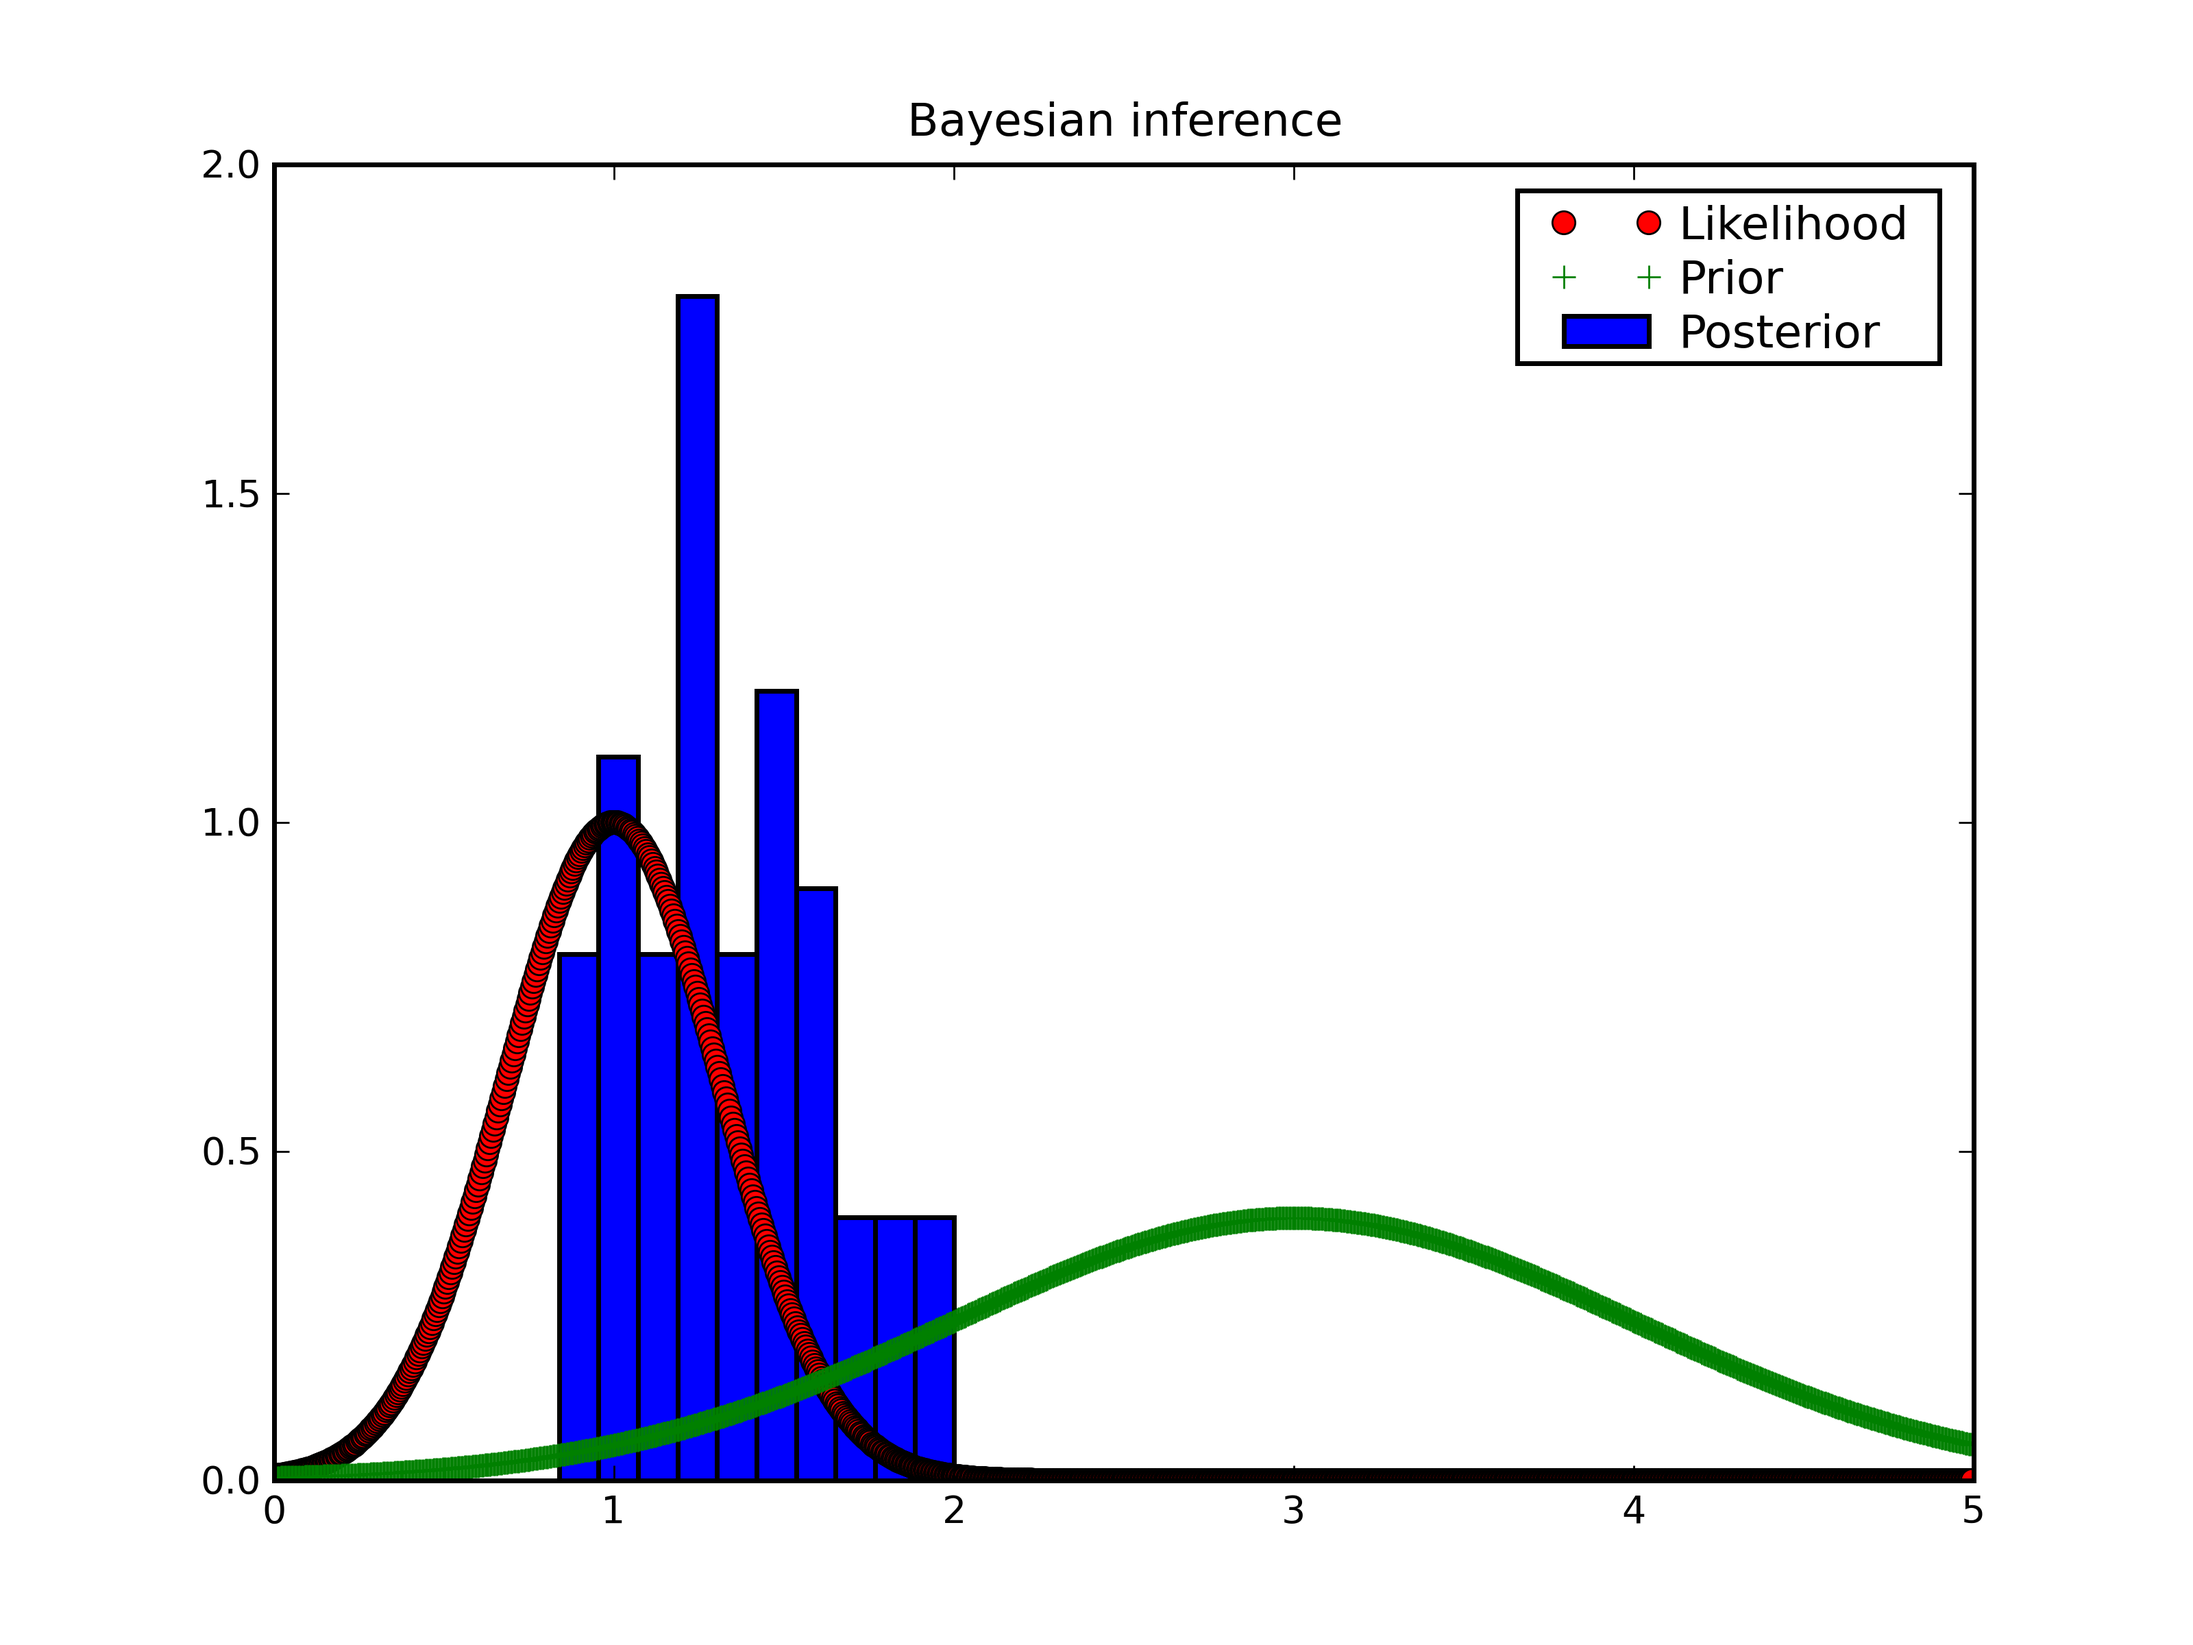
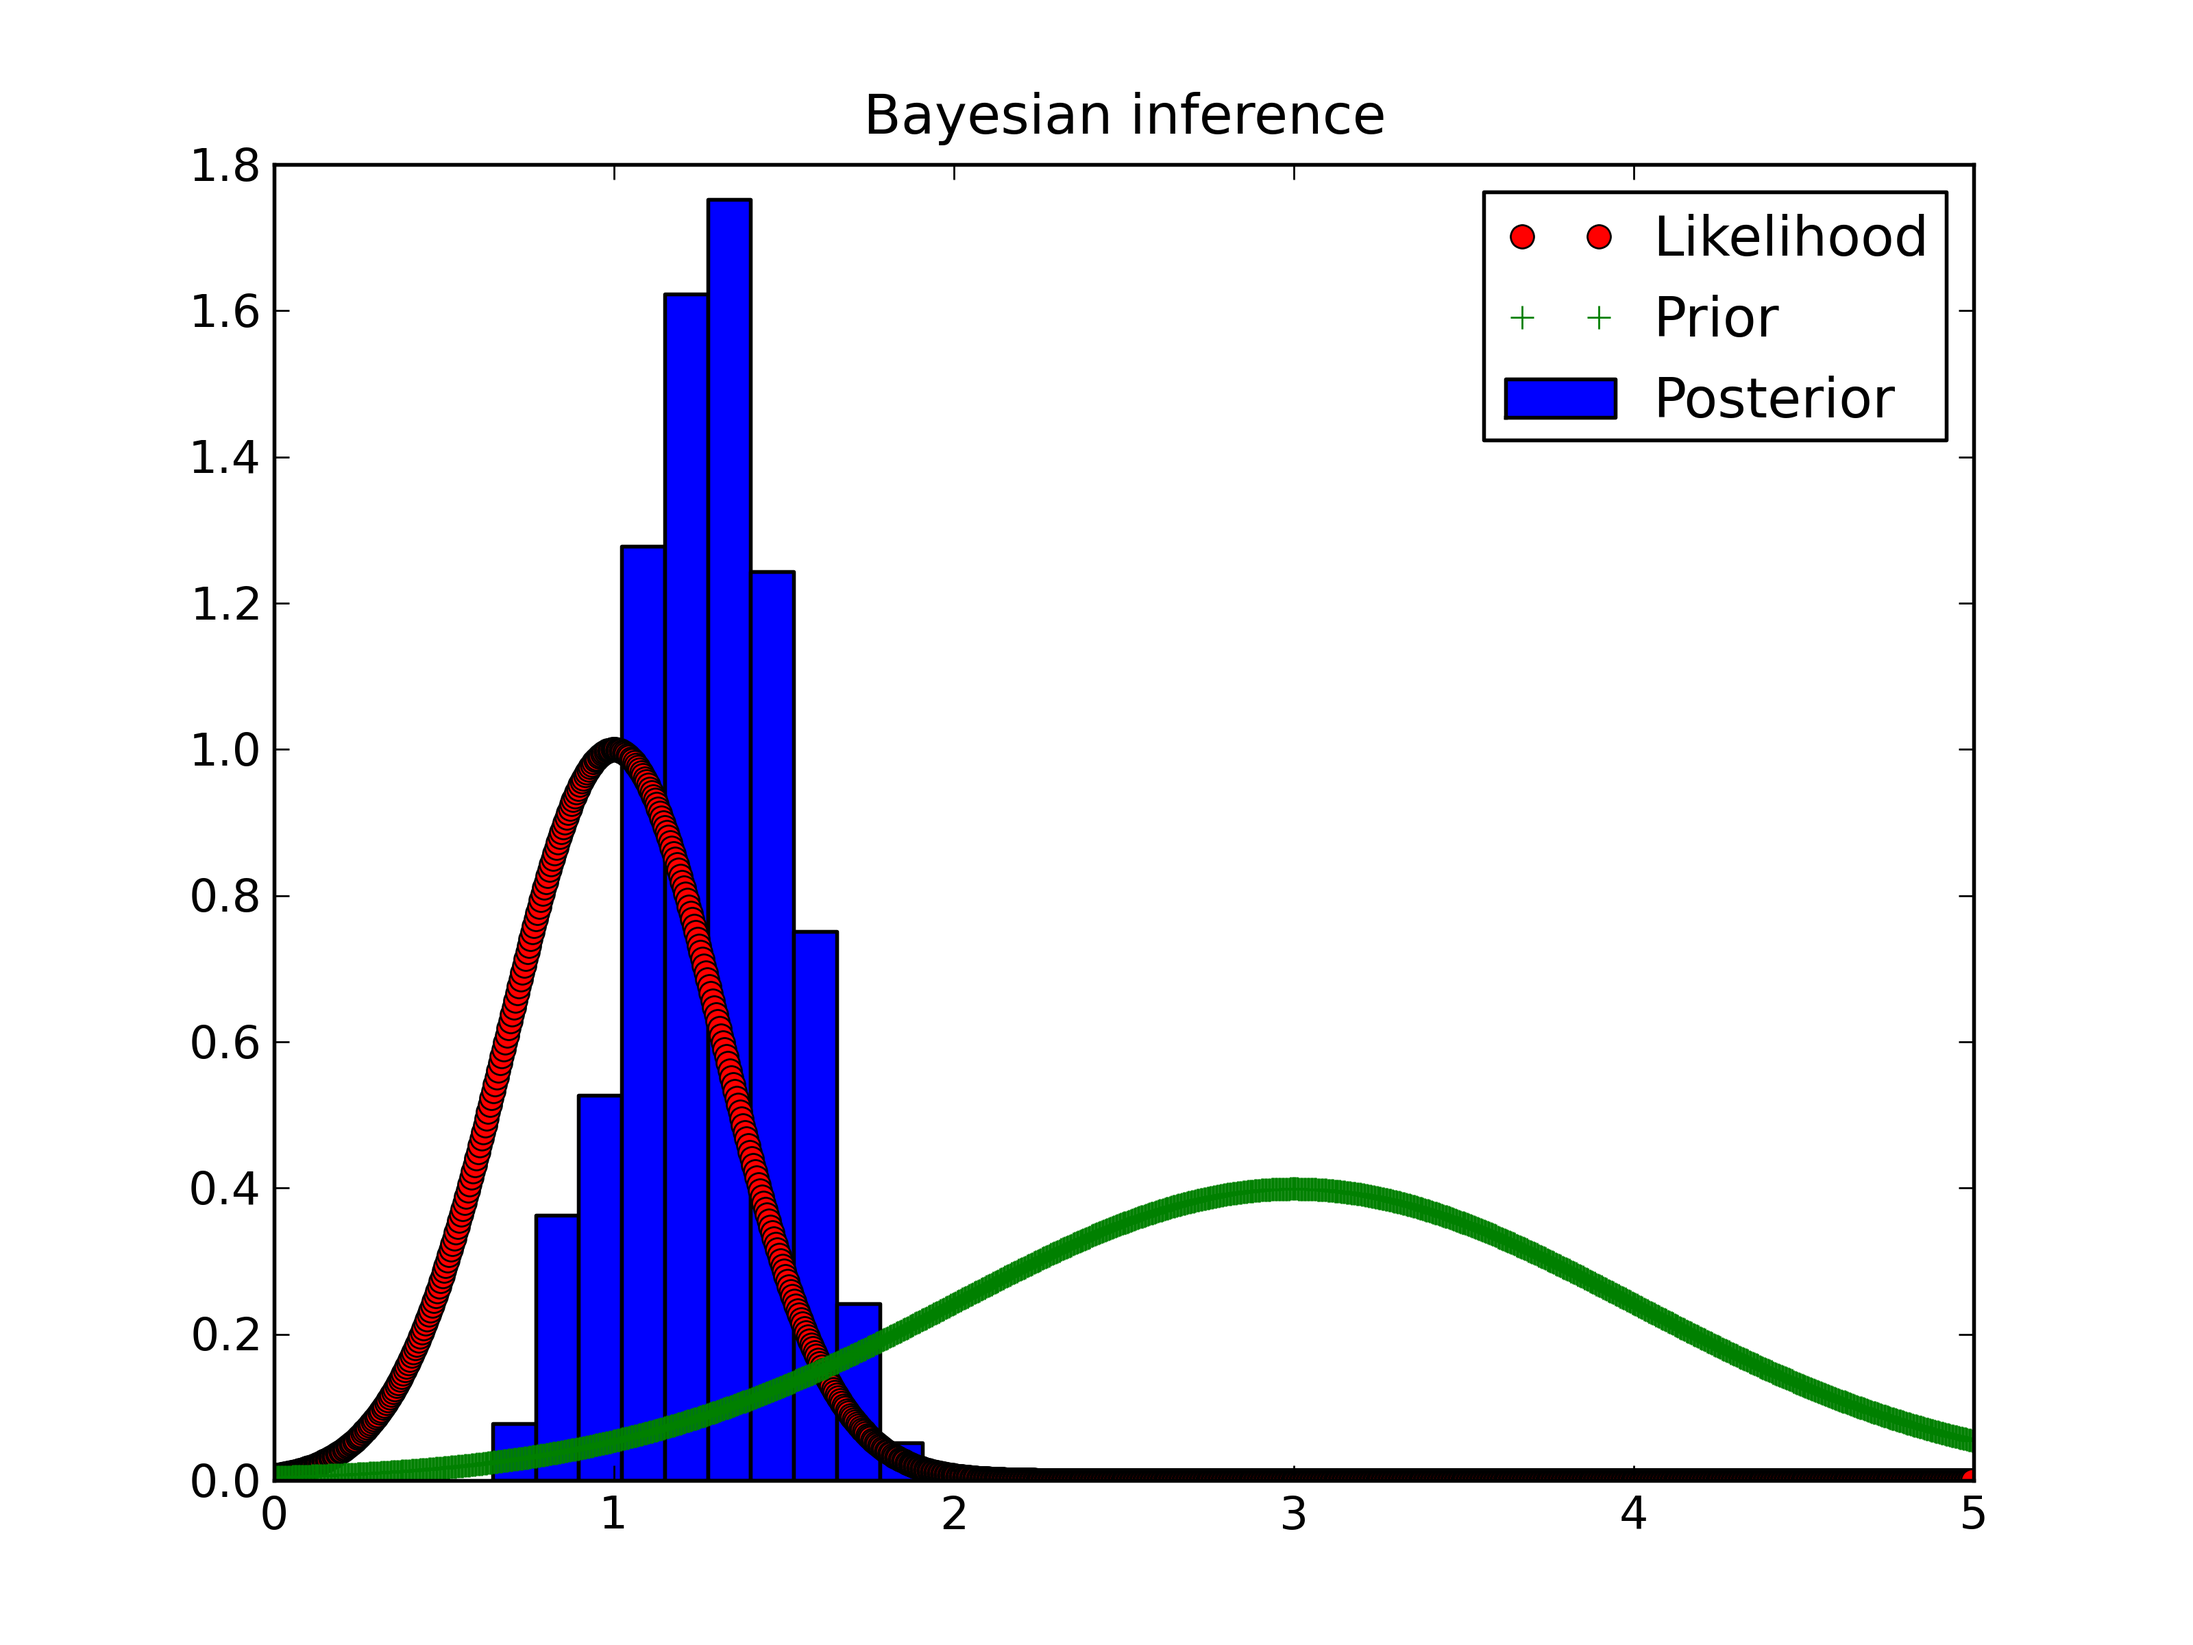
fixed some bugs in the __str__ of _BayesVar

diff --git a/trunk/build/lib.linux-i686-2.6/BIP/Bayes/general/bvariables.py b/trunk/build/lib.linux-i686-2.6/BIP/Bayes/general/bvariables.py
@@ -4,10 +4,12 @@ This module implements classes to represent an arbitrary Bayesian random variabl
 """
 # copyright 2007 Flavio Codeco Coelho
 # Licensed under GPL v3
-from numpy import arange,compress, array, exp
-import like, sys
+from numpy import arange,compress, array, exp, ones, less, greater, searchsorted
+from BIP.Bayes import like
+import sys
 import pylab as P
 from scipy import stats
+from BIP.Viz.ascii import Histogram
 
 ## Conjugate prior list: distribution types which have supported conjugate prior 
 
@@ -40,7 +42,7 @@ class _BayesVar(object):
             - `rang`: range of the variable support.
             - `resolution`: resolution of the support.
         '''
-        self.distn = dist_type.name
+        self.distn = disttype.name
         self._flavorize(disttype(*pars), disttype)
         self.pars = pars
         self.rang = rang
@@ -49,6 +51,16 @@ class _BayesVar(object):
         self.likelihood = None
         self.data = []
         self.posterior=array([])
+
+    def __str__(self):
+        '''
+        :Return:
+        ascii histogram of the variable
+        '''
+        d = self.get_posterior_sample(1000)
+        print d.shape
+        h = Histogram(d,bins=10)
+        return h.vertical()
 
     def _flavorize(self,pt, ptbase):
         '''
@@ -77,14 +89,14 @@ class _BayesVar(object):
             lik = exp(array([self.likefun((d,i,sc)) for i in arange(m,M,step)]))
             self.likelihood = lik/sum(lik)
 
-    def addData(self, data = []):
+    def add_data(self, data = []):
         """
         Adds dataset to variable's data store
         """
         self.data.append(array(data))
         self._update()
 
-    def getPriorSample(self,n):
+    def get_prior_sample(self,n):
         '''
         Returns a sample from the prior distribution
 
@@ -93,13 +105,13 @@ class _BayesVar(object):
         '''
         return self.rvs(size=n)
     
-    def getPriorDist(self):
+    def get_prior_dist(self):
         """
         Returns the prior PDF.
         """
         return self.pdf(arange(self.rang[0],self.rang[1],self.res))
         
-    def getPosteriorSample(self, n):
+    def get_posterior_sample(self, n):
         """
         Return a sample of the posterior distribution.
         Uses SIR algorithm.
@@ -108,10 +120,10 @@ class _BayesVar(object):
             - `n`: Sample size.
         """
         if self.posterior.any():# Use last posterior as prior
-            k= stats.kde.gausian_kde(self.posterior)
+            k= stats.kde.gaussian_kde(self.posterior)
             s= k.resample(n)
         else:
-            s = self.getPriorSample(n)
+            s = self.get_prior_sample(n)
         if self.data:
             m = self.rang[0]
             M = self.rang[1]
@@ -145,7 +157,7 @@ class _BayesVar(object):
         elif typ == 'beta':
             return lambda(x):like.Beta(x[0],x[1],x[2])
         
-    def _postFromConjugate(dname,*pars):
+    def _post_from_conjugate(dname,*pars):
         '''
         Returns posterior distribution function using conjugate prior theory
         '''
@@ -166,10 +178,11 @@ if __name__=="__main__":
     #bv = BayesVar(stats.norm,(3,1),range=(0,5))
     bv = Continuous(stats.norm,(3,1),range=(0,5), resolution=1000)
     data = ones(10)
-    bv.addData(data)
-    p = bv.getPosteriorSample(200000)
+    bv.add_data(data)
+    print bv
+    p = bv.get_posterior_sample(200000)
     P.plot(arange(bv.rang[0],bv.rang[1], bv.res),bv.likelihood/max(bv.likelihood), 'ro', lw=2)
-    P.plot(arange(bv.rang[0],bv.rang[1], bv.res),bv.getPriorDist(),'g+',lw=2)
+    P.plot(arange(bv.rang[0],bv.rang[1], bv.res),bv.get_prior_dist(),'g+',lw=2)
     P.hist(p, normed=1)
     P.legend(['Likelihood','Prior', 'Posterior'])
     P.title('Bayesian inference')

diff --git a/trunk/BIP/Bayes/general/bvariables.py b/trunk/BIP/Bayes/general/bvariables.py
@@ -4,8 +4,9 @@ This module implements classes to represent an arbitrary Bayesian random variabl
 """
 # copyright 2007 Flavio Codeco Coelho
 # Licensed under GPL v3
-from numpy import arange,compress, array, exp
-import like, sys
+from numpy import arange,compress, array, exp, ones, less, greater, searchsorted
+from BIP.Bayes import like
+import sys
 import pylab as P
 from scipy import stats
 from BIP.Viz.ascii import Histogram
@@ -41,7 +42,7 @@ class _BayesVar(object):
             - `rang`: range of the variable support.
             - `resolution`: resolution of the support.
         '''
-        self.distn = dist_type.name
+        self.distn = disttype.name
         self._flavorize(disttype(*pars), disttype)
         self.pars = pars
         self.rang = rang
@@ -56,7 +57,11 @@ class _BayesVar(object):
         :Return:
         ascii histogram of the variable
         '''
-        d = self.getPosteriorSample(1000)
+        if self.posterior.any():
+            d = self.posterior
+        else:
+            d = self.get_posterior_sample(200000)
+        print d.shape
         h = Histogram(d,bins=10)
         return h.vertical()
 
@@ -87,14 +92,14 @@ class _BayesVar(object):
             lik = exp(array([self.likefun((d,i,sc)) for i in arange(m,M,step)]))
             self.likelihood = lik/sum(lik)
 
-    def addData(self, data = []):
+    def add_data(self, data = []):
         """
         Adds dataset to variable's data store
         """
         self.data.append(array(data))
         self._update()
 
-    def getPriorSample(self,n):
+    def get_prior_sample(self,n):
         '''
         Returns a sample from the prior distribution
 
@@ -103,13 +108,13 @@ class _BayesVar(object):
         '''
         return self.rvs(size=n)
     
-    def getPriorDist(self):
+    def get_prior_dist(self):
         """
         Returns the prior PDF.
         """
         return self.pdf(arange(self.rang[0],self.rang[1],self.res))
         
-    def getPosteriorSample(self, n):
+    def get_posterior_sample(self, n):
         """
         Return a sample of the posterior distribution.
         Uses SIR algorithm.
@@ -118,10 +123,10 @@ class _BayesVar(object):
             - `n`: Sample size.
         """
         if self.posterior.any():# Use last posterior as prior
-            k= stats.kde.gausian_kde(self.posterior)
+            k= stats.kde.gaussian_kde(self.posterior)
             s= k.resample(n)
         else:
-            s = self.getPriorSample(n)
+            s = self.get_prior_sample(n)
         if self.data:
             m = self.rang[0]
             M = self.rang[1]
@@ -155,7 +160,7 @@ class _BayesVar(object):
         elif typ == 'beta':
             return lambda(x):like.Beta(x[0],x[1],x[2])
         
-    def _postFromConjugate(dname,*pars):
+    def _post_from_conjugate(dname,*pars):
         '''
         Returns posterior distribution function using conjugate prior theory
         '''
@@ -176,10 +181,12 @@ if __name__=="__main__":
     #bv = BayesVar(stats.norm,(3,1),range=(0,5))
     bv = Continuous(stats.norm,(3,1),range=(0,5), resolution=1000)
     data = ones(10)
-    bv.addData(data)
-    p = bv.getPosteriorSample(200000)
+    bv.add_data(data)
+    print bv
+    p = bv.get_posterior_sample(200000)
+    print bv
     P.plot(arange(bv.rang[0],bv.rang[1], bv.res),bv.likelihood/max(bv.likelihood), 'ro', lw=2)
-    P.plot(arange(bv.rang[0],bv.rang[1], bv.res),bv.getPriorDist(),'g+',lw=2)
+    P.plot(arange(bv.rang[0],bv.rang[1], bv.res),bv.get_prior_dist(),'g+',lw=2)
     P.hist(p, normed=1)
     P.legend(['Likelihood','Prior', 'Posterior'])
     P.title('Bayesian inference')

diff --git a/trunk/BIP/Bayes/Melding.py b/trunk/BIP/Bayes/Melding.py
@@ -589,7 +589,7 @@ def main2():
     Me = Meld(K=10000,L=2000,model=model, ntheta=2,nphi=1,verbose=False,viz=False)
     Me.setTheta(['r','p0'],[stats.uniform,stats.uniform],[(2,4),(0,5)])
     Me.setPhi(['p'],[stats.uniform],[(6,9)],[(6,9)])
-    #Me.addData(normal(7.5,1,400),'normal',(6,9))
+    #Me.add_data(normal(7.5,1,400),'normal',(6,9))
     #Me.run()
     Me.sir(data ={'p':[7.5]} )
     pt,pp = Me.getPosteriors()

diff --git a/trunk/build/lib.linux-i686-2.6/BIP/Bayes/Melding.py b/trunk/build/lib.linux-i686-2.6/BIP/Bayes/Melding.py
@@ -589,7 +589,7 @@ def main2():
     Me = Meld(K=10000,L=2000,model=model, ntheta=2,nphi=1,verbose=False,viz=False)
     Me.setTheta(['r','p0'],[stats.uniform,stats.uniform],[(2,4),(0,5)])
     Me.setPhi(['p'],[stats.uniform],[(6,9)],[(6,9)])
-    #Me.addData(normal(7.5,1,400),'normal',(6,9))
+    #Me.add_data(normal(7.5,1,400),'normal',(6,9))
     #Me.run()
     Me.sir(data ={'p':[7.5]} )
     pt,pp = Me.getPosteriors()

diff --git a/trunk/BIP/tests/test_Bayes_Melding.py b/trunk/BIP/tests/test_Bayes_Melding.py
@@ -12,7 +12,7 @@ class TestMeld(unittest.TestCase):
 
     def test_addData(self):
         # meld = Meld(K, L, model, ntheta, nphi, alpha, verbose, viz)
-        # self.assertEqual(expected, meld.addData(data, model, limits, l, **kwargs))
+        # self.assertEqual(expected, meld.add_data(data, model, limits, l, **kwargs))
         assert False # TODO: implement your test here
 
     def test_basicfit(self):
